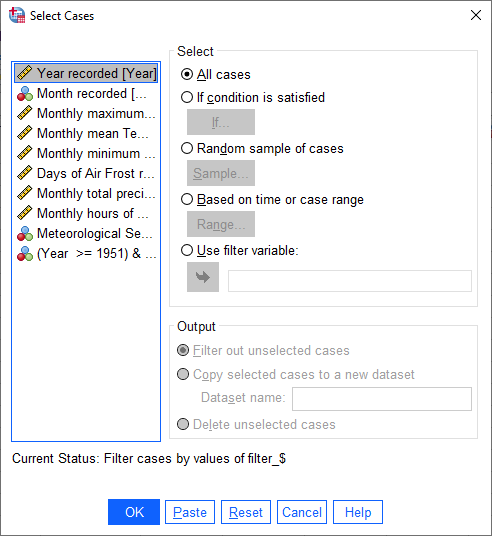
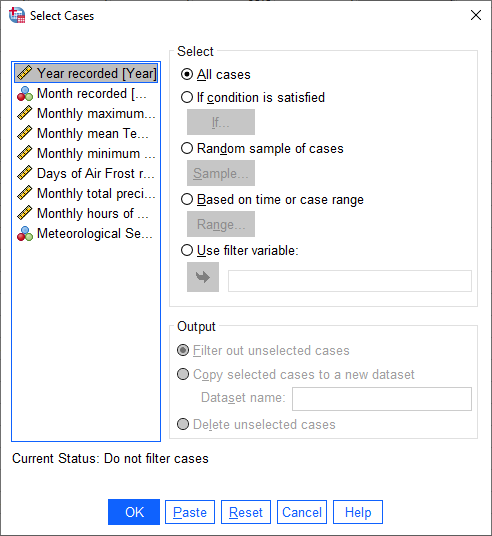
continue working on egm101 week 6 practical

Changed region(s): [[0.2134, 0.8358, 0.5793, 0.8657], [0.0305, 0.4478, 0.3049, 0.5075]]

diff --git a/docs/teaching/egm101/practicals/week6.rst b/docs/teaching/egm101/practicals/week6.rst
@@ -440,34 +440,115 @@ Have a look at the tables in the **Viewer** window, and see if you can answer th
 recoding values
 ................
 
-*something about meteorological seasons*
+`Meteorological seasons <https://www.metoffice.gov.uk/weather/learn-about/weather/seasons/>`__ are defined by splitting
+the year into four periods of three months each, which helps with comparing seasonal and monthly statistics between
+years. The seasons are defined as follows:
 
 - Spring: March, April, May
 - Summer: June, July, August
 - Autumn: September, October, November
 - Winter: December, January, February
 
-To assign each month a season, we use **Recode into different variables** (**Transform** >
-**Recode into different variables**). When you select this, you should see the following dialog:
+We can use SPSS to assign a season to each of our data values, based on the month that it was recorded. To do this,
+we use a tool called **Recode into different variables** (**Transform** > **Recode into different variables**).
+When you select this, you should see the following dialog:
 
-**recode_blank**
+.. image:: img/week6/recode_blank.png
+    :width: 400
+    :align: center
+    :alt: the "recode into different variables" dialog
 
-The variable that we want to recode is ``Month``, so add that to **Input Variable -> Output Variable**. The
+|br| The variable that we want to recode is ``Month``, so add that to **Input Variable -> Output Variable**. The
 **Output Variable** that we want to create by recoding is ``Season``, so add that to the **Name** of the
 **Output Variable**, and fill in a **Label** as well:
 
-**recode**
+.. image:: img/week6/recode_blank.png
+    :width: 400
+    :align: center
+    :alt: the "recode into different variables" dialog, with "month" selected and a new variable, "season" added
 
-Now, we have to tell SPSS *how* to recode the variable. That is, what values of ``Month`` determine each value of
-``Season``?
+|br| Now, we have to tell SPSS *how* to recode the variable. That is, what values of ``Month`` determine each value of
+``Season``? Click on **Old and New Values** to bring up the following dialog:
 
+.. image:: img/week6/old_and_new_blank.png
+    :width: 400
+    :align: center
+    :alt: the "recode into different variables: old and new values" dialog
 
+|br| Here is where we tell SPSS how to recode the values of ``Month`` into the new ``Season`` variable. Because each
+season is defined by a *range* of month values, select **Range** under **Old Value**, and enter the values 3 and 5 into
+the two boxes. Under **New Value**, enter a value of 1:
 
+.. image:: img/week6/old_and_new.png
+    :width: 400
+    :align: center
+    :alt: the "recode into different variables: old and new values" dialog, with values entered for Spring
 
+|br| This means that anywhere the value of ``Month`` is equal to 3, 4, or 5 (corresponding to March, April, and May),
+the ``Season`` variable will have a value of 1 (corresponding to Spring). Click **Add** to add this value to the
+**Old --> New** table, then proceed to enter the following values:
 
-Finally, you can undo a *split* by opening the **Split File** dialog again (**Data** > **Split File**), and selecting
+- Summer: **Old**: 6 through 8, **New**: 2
+- Autumn: **Old**: 9 through 11, **New**: 3
+- Winter: **Old**: All other values, **New**: 4
+
+Here, we use **All other values** to recode winter. The table should look like this:
+
+.. image:: img/week6/old_and_new_all.png
+    :width: 400
+    :align: center
+    :alt: the "recode into different variables: old and new values" dialog, with values entered for all seasons
+
+|br| Click **Continue** to go back to the **Recode into Different Variables** dialog, which should look like this:
+
+.. image:: img/week6/recode_final.png
+    :width: 400
+    :align: center
+    :alt: the "recode into different variables" dialog, with all values entered
+
+|br| Click **OK** to perform the recoding. You should now see a new variable, ``Spring``, in the **Data Editor**.
+Just like we did with the months, you can add **Labels** to the new variable so that when you compute descriptive
+statistics or perform other calculations, the names will make more sense:
+
+.. image:: img/week6/recode_label.png
+    :width: 600
+    :align: center
+    :alt: the data editor window with a new variable, season, and labels entered
+
+|br| Enter labels for the variable now, in the same way that you did earlier for ``Month``.
+
+Now, we can look at descriptive statistics for the seasons. First, we need to *split* the data based on this new
+variable - either click on the **Split File** button, or choose **Split File** from the **Data** menu (**Data** >
+**Split File**). Choose **Compare groups** and **Groups Based on** ``Season``:
+
+.. image:: img/week6/split_season.png
+    :width: 300
+    :align: center
+    :alt: the split file dialog, with "compare groups" selected, and "groups based on" meteorological season.
+
+|br| Click **OK**. Next, open the **Descriptive Statistics** dialog again (**Analyze** > **Descriptive Statistics** >
+**Descriptives**). For this step, we only want to see the descriptive statistics for precipitation, so make sure
+that the only variable selected is ``Rain``:
+
+.. image:: img/week6/descriptives_precip.png
+    :width: 300
+    :align: center
+    :alt: the Descriptives dialog, with "monthly total precipitation" selected.
+
+|br| Double-check that the same statistics are still selected by clicking on **Options**. Once you have checked this,
+click **OK** to return to the **Descriptives** dialog, and click **OK** again to calculate descriptive statistics.
+
+You should see this table in the **Statistics Viewer** window:
+
+.. image:: img/week6/seasonal_descriptives.png
+    :width: 600
+    :align: center
+    :alt: the statistics viewer window, with a table containing descriptives statistics for rainfall in each season.
+
+|br| Rename the table to "Seasonal Rain" as above, and be sure to save both the ``.spv`` file and the ``.sav`` file.
+
+As a final step, undo the *split* by opening the **Split File** dialog again (**Data** > **Split File**), and selecting
 **Analyze all cases, do not create groups**. Do this now, before moving on to the next section.
-
 
 selecting cases
 .................
@@ -475,16 +556,79 @@ selecting cases
 The final way that we'll look at to select subsets of our data is by *selecting cases* (or groups of cases). In this
 case, we're interested in the record from 1951 - 1980.
 
+Open the **Select Cases** dialog by clicking on the **Select Cases** button (outlined in red below), or from the
+**Data** menu (**Data** > **Select Cases**):
 
+.. image:: img/week6/select1.png
+    :width: 300
+    :align: center
+    :alt: the select cases dialog.
+
+|br| In the **Select Cases** dialog, we want to select cases where ``Year`` is between 1951 and 1980 - that is,
+we want to select cases if a particular condition is satisfied. So, click on **If condition is satisfied**, then
+click the **If** button to define the condition. This will open the **Select Cases: If** dialog, where you can enter
+the following formula:
+::
+
+    (Year >= 1951) & (Year <= 1980)
+
+
+.. image:: img/week6/select_conditional.png
+    :width: 500
+    :align: center
+    :alt: the "select cases: if" dialog, with a formula entered to select years between 1951 and 1980.
+
+|br| This formula tells SPSS to select all cases where ``Year`` is both greater than (or equal to) 1951, *and* (``&``)
+where ``Year`` is less than (or equal to) 1980. When you have entered the formula, click **Continue** to return
+to the **Select Cases** dialog:
+
+.. image:: img/week6/select2.png
+    :width: 300
+    :align: center
+    :alt: the select cases dialog, with the selection based on the conditional entered in the previous step.
+
+|br| Click **OK**. You should now see that there is a new variable in the table, ``filter_$``:
+
+.. image:: img/week6/filtered.png
+    :width: 600
+    :align: center
+    :alt: the data editor window, with a new "filter" variable added
+
+|br| This variable has a value of 1 where the case is included in the selection, and 0 where it is not. If you scroll
+through the table, you should see that cases where ``Year`` is between 1951 and 1980 have a 1, and a 0 where this is
+not true.
+
+Now, we can summarize the temperature and precipitation for those years, using descriptive statistics. Once again,
+open the **Descriptive Statistics** dialog and select the three temperature variables (``Tmax``, ``Tmean``,
+and ``Tmin``), plus the precipitation variable (``Rain``). When the tool finishes running, you should see the
+following table output in the **Statistics Viewer** window:
+
+.. image:: img/week6/filtered_descriptives.png
+    :width: 600
+    :align: center
+    :alt: the statistics viewer, with descriptive statistics for 1951 - 1980 shown.
+
+|br| Don't forget to change the title of this section to make it clear that these are values for 1951-1980.
+
+Finally, to undo the filtering, open **Select Cases** again, and click the button for **All cases**. Do this before
+continuing to the next section.
 
 displaying data
 ------------------
 
+In the final part of this practical, we'll look at how we can use SPSS to display data in graphical form. There are
+many more options available than examples covered here, and a wide variety of tutorials/walkthroughs available online,
+so feel free to continue exploring once you've reached the end of the practical.
+
 histogram
 ............
 
-histogram of all rainfall?
-add normal curve
+As a first example, we'll create a histogram of
+
+
+.. admonition:: Questions
+
+    - ...
 
 
 bar graph
@@ -493,25 +637,16 @@ bar graph
 rain, categorized using monthly values
 
 
-line plot
-.................
+.. admonition:: Questions
+
+    - ...
 
 
-
-
-questions
------------
-
-- Which of the temperature variables has the largest variance/standard deviation? Why do you think this might be the case?
-- What is the highest recorded monthly rainfall in Armagh? What about the lowest?
-- Which months have the largest variation in temperature? Why do you think this might be the case?
-- In what month was the highest recorded monthly rainfall recorded in Armagh? What about the lowest?
 
 next steps
 -------------
 
-
-
-notes
---------
+- Use **Select Cases** to select cases from 1991 - 2020, and create a table showing the descriptive statistics of the
+  temperature variables and precipitation. Do you notice any differences between this period and the period 1951-1980?
+-
 
